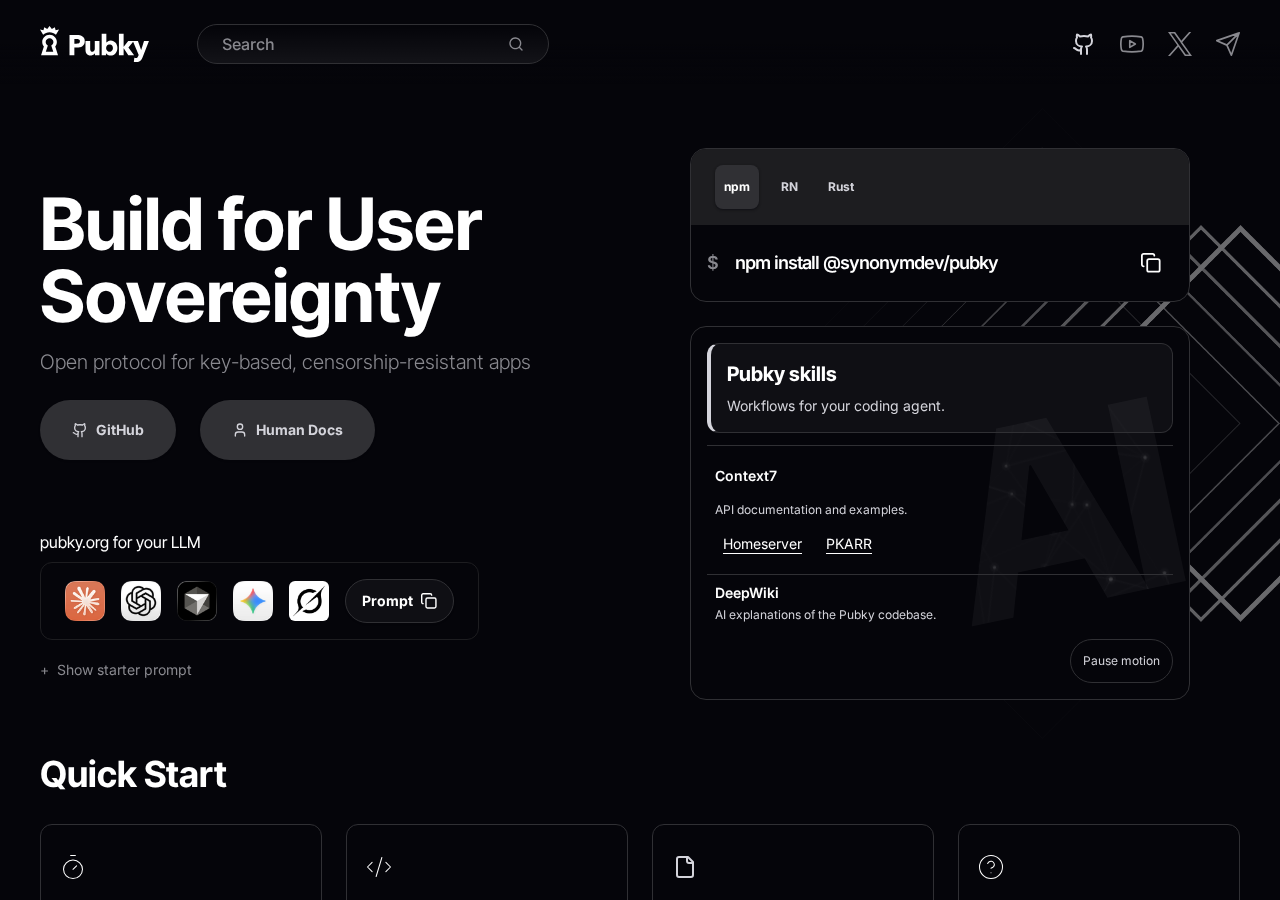
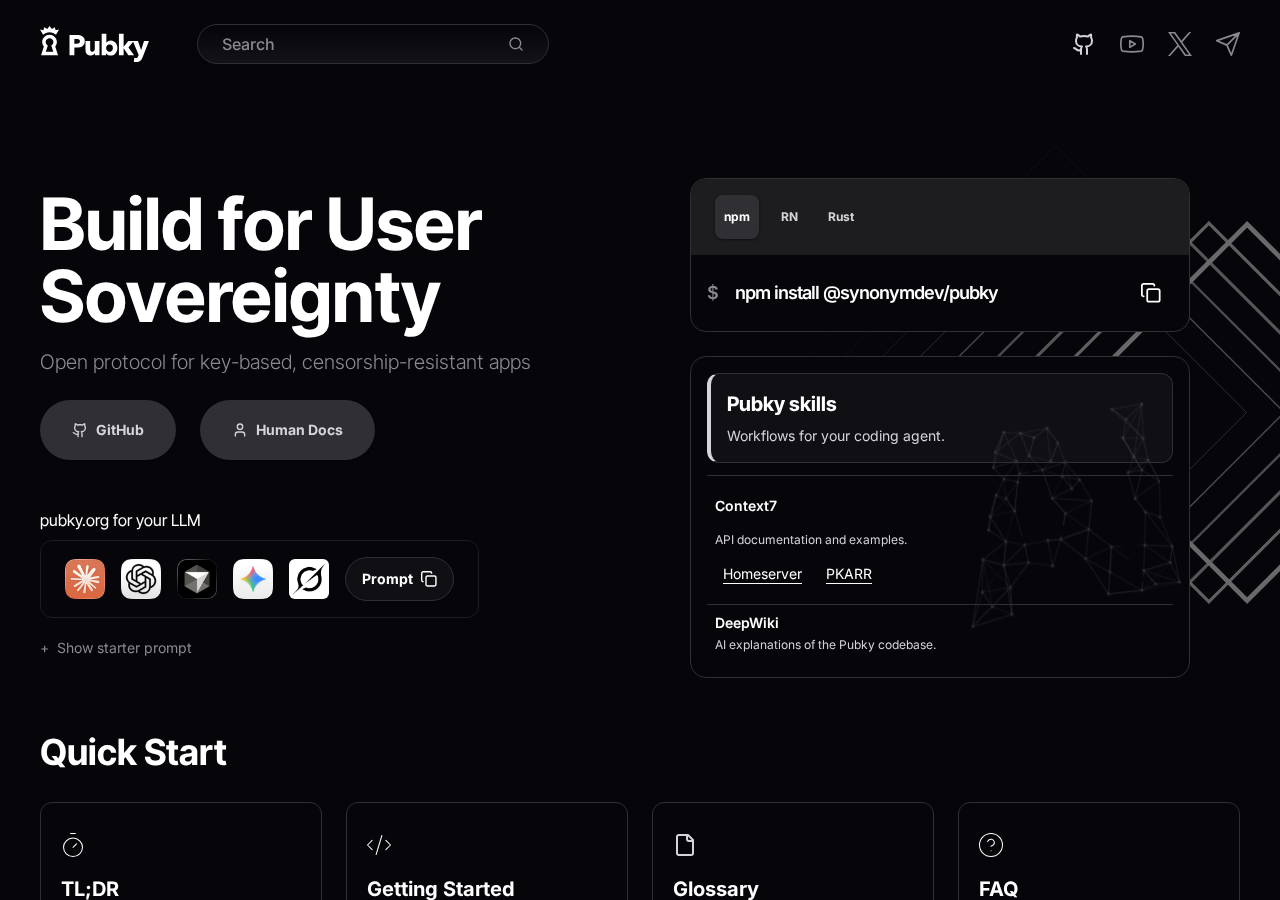
Form AI lettering from a dense illuminated network

diff --git a/src/scripts/ai-network.ts b/src/scripts/ai-network.ts
@@ -1,13 +1,17 @@
 /** A bounded decorative network; the existing CSS mesh remains the fallback. */
 const controllers = new Map<HTMLElement, () => void>();
 const FRAME_INTERVAL = 1000 / 20;
-const NODE_COUNT = 24;
+const NODE_COUNT = 64;
+const SWEEP_CYCLE = 12_000;
+const SWEEP_START = 1_080;
+const SWEEP_DURATION = 2_520;
+
+type Edge = { from: number; to: number; stable: boolean; phase: number };
 
 function createNetwork(root: HTMLElement): () => void {
   const watermark = root.querySelector<HTMLElement>('.ai-resources-watermark');
   const canvas = root.querySelector<HTMLCanvasElement>('.ai-network-canvas');
-  const toggle = root.querySelector<HTMLButtonElement>('[data-ai-motion-toggle]');
-  if (!watermark || !canvas || !toggle || !window.IntersectionObserver || !window.ResizeObserver) {
+  if (!watermark || !canvas || !window.IntersectionObserver || !window.ResizeObserver) {
     return () => {};
   }
 
@@ -18,14 +22,15 @@ function createNetwork(root: HTMLElement): () => void {
 
   const reducedMotion = matchMedia('(prefers-reduced-motion: reduce)');
   const events = new AbortController();
-  const nodes = Array.from({ length: NODE_COUNT }, (_, index) => ({
-    x: ((index % 4) + 0.5 + (Math.random() - 0.5) * 0.6) / 4,
-    y: (Math.floor(index / 4) + 0.5 + (Math.random() - 0.5) * 0.6) / 6,
+  const nodes = Array.from({ length: NODE_COUNT }, () => ({
+    x: 0,
+    y: 0,
     phase: Math.random() * Math.PI * 2,
   }));
+  let edges: Edge[] = [];
+  let maskPixels: ImageData['data'] | undefined;
   let disposed = false;
   let failed = false;
-  let paused = false;
   let visible = false;
   let fontsReady = false;
   let ready = false;
@@ -38,47 +43,123 @@ function createNetwork(root: HTMLElement): () => void {
   let lastDraw = 0;
   let elapsed = 0;
 
+  function insideMask(x: number, y: number): boolean {
+    if (!maskPixels || x < 0 || y < 0 || x >= width || y >= height) return false;
+    const column = Math.min(mask.width - 1, Math.floor(x * pixelRatio));
+    const row = Math.min(mask.height - 1, Math.floor(y * pixelRatio));
+    return (maskPixels[(row * mask.width + column) * 4 + 3] ?? 0) > 160;
+  }
+
+  function seedGraph() {
+    // Farthest-point sampling spreads nodes through the actual strokes of both
+    // letters, including their contours, instead of wasting nodes in empty space.
+    const candidates: Array<{ x: number; y: number; distance: number }> = [];
+    const step = Math.max(2, Math.min(width, height) / 32);
+    for (let y = step / 2; y < height && candidates.length < 4096; y += step) {
+      for (let x = step / 2; x < width && candidates.length < 4096; x += step) {
+        if (insideMask(x, y)) candidates.push({ x, y, distance: Infinity });
+      }
+    }
+    if (!candidates.length) throw new Error('The decorative glyph mask is empty.');
+    let next = 0;
+    nodes.forEach((node, index) => {
+      const point = candidates[next]!;
+      node.x = point.x / width;
+      node.y = point.y / height;
+      point.distance = -1;
+      let farthest = -1;
+      next = index % candidates.length;
+      candidates.forEach((candidate, candidateIndex) => {
+        if (candidate.distance < 0) return;
+        const distance = (point.x - candidate.x) ** 2 + (point.y - candidate.y) ** 2;
+        candidate.distance = Math.min(candidate.distance, distance);
+        if (candidate.distance > farthest) {
+          farthest = candidate.distance;
+          next = candidateIndex;
+        }
+      });
+    });
+
+    // Five candidate neighbors per node cap the graph at 320 unique edges.
+    // Two nearby connections remain as a dim backbone; the others fade/reform.
+    const connections = new Map<number, Edge>();
+    nodes.forEach((node, index) => {
+      const nearest = nodes.map((other, otherIndex) => ({
+        index: otherIndex,
+        distance: ((node.x - other.x) * width) ** 2 + ((node.y - other.y) * height) ** 2,
+      })).filter((other) => other.index !== index)
+        .sort((a, b) => a.distance - b.distance).slice(0, 5);
+      nearest.forEach((other, rank) => {
+        const from = Math.min(index, other.index);
+        const to = Math.max(index, other.index);
+        const key = from * NODE_COUNT + to;
+        const existing = connections.get(key);
+        if (existing) existing.stable ||= rank < 2;
+        else connections.set(key, {
+          from, to, stable: rank < 2, phase: nodes[from]!.phase + nodes[to]!.phase,
+        });
+      });
+    });
+    edges = [...connections.values()];
+  }
+
   function draw() {
     if (!context || !ready) return;
     const time = elapsed / 1000;
-    const points = nodes.map((node) => ({
-      x: (node.x + Math.sin(time * 0.32 + node.phase) * 0.055) * width,
-      y: (node.y + Math.cos(time * 0.25 + node.phase) * 0.045) * height,
-    }));
+    const drift = Math.min(width, height) * 0.018;
+    const points = nodes.map((node) => {
+      const anchor = { x: node.x * width, y: node.y * height };
+      let x = anchor.x + Math.sin(time * 0.45 + node.phase) * drift;
+      let y = anchor.y + Math.cos(time * 0.37 + node.phase) * drift;
+      if (!insideMask(x, y)) {
+        x = (x + anchor.x) / 2;
+        y = (y + anchor.y) / 2;
+      }
+      return insideMask(x, y) ? { x, y } : anchor;
+    });
+    const cycleTime = elapsed % SWEEP_CYCLE;
+    const sweeping = cycleTime >= SWEEP_START && cycleTime < SWEEP_START + SWEEP_DURATION;
+    const state = sweeping ? 'sweeping' : 'resting';
+    if (root.dataset.aiShimmer !== state) root.dataset.aiShimmer = state;
+    const band = Math.max(width, height) * 0.16;
+    const progress = (cycleTime - SWEEP_START) / SWEEP_DURATION;
+    const center = -band + (width + height * 0.3 + band * 2) * progress;
+    const lightAt = (x: number, y: number) => sweeping
+      ? Math.max(0, 1 - Math.abs(x + y * 0.3 - center) / band) ** 2
+      : 0;
+
     context.setTransform(pixelRatio, 0, 0, pixelRatio, 0, 0);
     context.clearRect(0, 0, width, height);
     context.strokeStyle = ink;
     context.fillStyle = ink;
-    context.lineWidth = 0.8;
-    const reach = Math.max(width, height) * 0.34;
-
-    // At most three forward connections per node; edge phases form new paths.
-    points.forEach((point, index) => {
-      let connections = 0;
-      for (let other = index + 1; other < points.length && connections < 3; other++) {
-        const target = points[other]!;
-        const distance = Math.hypot(point.x - target.x, point.y - target.y);
-        const formation = Math.sin(time * 0.52 + index * 1.7 + other * 0.9);
-        if (distance >= reach || formation <= -0.25) continue;
-        context.globalAlpha = (1 - distance / reach) * (formation + 0.25) * 0.65;
-        context.beginPath();
-        context.moveTo(point.x, point.y);
-        context.lineTo(target.x, target.y);
-        context.stroke();
-        connections++;
-      }
+    context.lineWidth = 0.85;
+    context.lineCap = 'round';
+    edges.forEach((edge) => {
+      const from = points[edge.from]!;
+      const to = points[edge.to]!;
+      const formation = (Math.sin(time * 0.55 + edge.phase) + 1) / 2;
+      if (!edge.stable && formation < 0.2) return;
+      const glint = lightAt((from.x + to.x) / 2, (from.y + to.y) / 2);
+      context.globalAlpha = Math.min(1, (edge.stable ? 0.28 : 0.1) + formation * 0.32 + glint * 0.6);
+      context.beginPath();
+      context.moveTo(from.x, from.y);
+      context.lineTo(to.x, to.y);
+      context.stroke();
     });
     points.forEach((point, index) => {
       const pulse = (Math.sin(time * 0.8 + nodes[index]!.phase) + 1) / 2;
-      context.globalAlpha = 0.1;
+      const glint = lightAt(point.x, point.y);
+      context.globalAlpha = 0.05 + glint * 0.1;
       context.beginPath();
-      context.arc(point.x, point.y, 4 + pulse, 0, Math.PI * 2);
+      context.arc(point.x, point.y, 3, 0, Math.PI * 2);
       context.fill();
-      context.globalAlpha = 0.65 + pulse * 0.35;
+      context.globalAlpha = Math.min(1, 0.5 + pulse * 0.2 + glint * 0.5);
       context.beginPath();
-      context.arc(point.x, point.y, 1.4 + pulse * 0.6, 0, Math.PI * 2);
+      context.arc(point.x, point.y, 1.2 + glint * 0.5, 0, Math.PI * 2);
       context.fill();
     });
+    // Only strokes and points reach the visible canvas; the glyph is an alpha
+    // mask, never a painted silhouette. The shimmer only changes their light.
     context.globalAlpha = 1;
     context.globalCompositeOperation = 'destination-in';
     context.drawImage(mask, 0, 0, width, height);
@@ -110,16 +191,14 @@ function createNetwork(root: HTMLElement): () => void {
   }
 
   function sync() {
-    if (disposed || !toggle) return;
+    if (disposed) return;
     const reduced = reducedMotion.matches;
     const usable = ready && fontsReady && !failed && !reduced;
-    root.dataset.aiMotion = reduced ? 'reduced' : paused ? 'paused' : 'playing';
+    root.dataset.aiMotion = reduced ? 'reduced' : 'playing';
     if (usable) root.dataset.aiNetworkReady = 'true';
     else delete root.dataset.aiNetworkReady;
-    toggle.hidden = !usable;
-    toggle.textContent = paused ? 'Play motion' : 'Pause motion';
-    toggle.setAttribute('aria-label', `${paused ? 'Play' : 'Pause'} motion in the AI lettering`);
-    const running = usable && !paused && visible && !document.hidden;
+    if (!usable) root.dataset.aiShimmer = 'resting';
+    const running = usable && visible && !document.hidden;
     if (!running) {
       stop();
     } else if (frame === undefined) {
@@ -161,6 +240,8 @@ function createNetwork(root: HTMLElement): () => void {
         maskContext.fillText('A', 0, baseline);
         maskContext.fillText('I', maskContext.measureText('A').width + tracking, baseline);
       }
+      maskPixels = maskContext.getImageData(0, 0, mask.width, mask.height).data;
+      seedGraph();
       ready = true;
       if (visible && !document.hidden) draw();
     } catch {
@@ -170,10 +251,6 @@ function createNetwork(root: HTMLElement): () => void {
     sync();
   }
 
-  toggle.addEventListener('click', () => {
-    paused = !paused;
-    sync();
-  }, { signal: events.signal });
   reducedMotion.addEventListener('change', () => {
     resize();
     sync();
@@ -207,7 +284,9 @@ function createNetwork(root: HTMLElement): () => void {
     delete root.dataset.aiMotion;
     delete root.dataset.aiRunning;
     delete root.dataset.aiNetworkReady;
-    toggle.hidden = true;
+    delete root.dataset.aiShimmer;
+    maskPixels = undefined;
+    edges = [];
     canvas.width = canvas.height = mask.width = mask.height = 0;
   };
 }

diff --git a/experiments/ai-native-docs/README.md b/experiments/ai-native-docs/README.md
@@ -6,7 +6,7 @@ Source: [gcomte/pubky-knowledge-base-vibed, vibe/ai-native-docs](https://github.
 
 Live experiment: **[pubky-ai-docs-vibe.vercel.app](https://pubky-ai-docs-vibe.vercel.app/)**.
 
-The landing page keeps the original hero heading, tagline, pill buttons, triangle backdrop and SDK terminal with npm, React Native and Rust tabs. A visible resource box below the terminal leads with Pubky skills as the primary entry, using a larger title and more space. Context7's Pubky search and its Homeserver and PKARR indexes, and DeepWiki, remain visible below it. Dim, tilted **AI** lettering sits behind the entries in place of a visible heading; the region retains an accessible name. A moving network of points and connections follows the letter shapes, with an occasional light sweep. A discreet pause control lets readers stop the motion. Reduced-motion preferences and browsers without JavaScript receive the static mesh. All entries appear without opening a menu. The original Claude, ChatGPT, Cursor, Gemini and Grok icon row appears under **pubky.org for your LLM**, alongside a compact **Prompt** copy button, with more space above and no flashing arrow or border. The portable starter prompt and show-prompt fallback remain available.
+The landing page keeps the original hero heading, tagline, pill buttons, triangle backdrop and SDK terminal with npm, React Native and Rust tabs. A visible resource box below the terminal leads with Pubky skills as the primary entry, using a larger title and more space. Context7's Pubky search and its Homeserver and PKARR indexes, and DeepWiki, remain visible below it. A dense moving network forms the tilted **AI** letters behind the entries in place of a visible heading; the region retains an accessible name. An occasional light sweep brightens the network itself. Reduced-motion preferences and browsers without JavaScript receive the static mesh. All entries appear without opening a menu. The original Claude, ChatGPT, Cursor, Gemini and Grok icon row appears under **pubky.org for your LLM**, alongside a compact **Prompt** copy button, with more space above and no flashing arrow or border. The portable starter prompt and show-prompt fallback remain available.
 
 On documentation pages, **Markdown** and **Copy link** controls sit beside the title, or below it on smaller screens. They replace the former “AI-friendly version” footer row. The existing documentation bodies and Markdown export pipeline are retained. Standard HTML links advertise the documentation index and each page's Markdown alternative.
 
@@ -20,13 +20,14 @@ This adapts the supplied `vibe-self-host` workflow to a static documentation fro
 - [Updated landing, mobile](evidence/after-mobile.png)
 - [AI resources, desktop](evidence/ai-resources-desktop.png)
 - [AI resources, mobile](evidence/ai-resources-mobile.png)
+- [Network illumination during a sweep](evidence/ai-network-shimmer.png)
 - [Document title actions, desktop](evidence/doc-actions-desktop.png)
 - [Document title actions, mobile](evidence/doc-actions-mobile.png)
 - [Browser check results](evidence/browser-checks.json)
 - [Network motion and layout checks](evidence/mesh-checks.json)
 - [Public deployment checks](evidence/public-checks.json)
 
-Validation passed: production build and generated-Markdown checks; all 22 internal homepage links; Markdown endpoints and discovery metadata; six viewport widths from 320 to 1920 pixels for the hero and short/long document titles; restored provider destinations, encoded prompts and icon assets; visible resource links without a disclosure; touch targets and keyboard focus; clipboard success and failure fallbacks; SDK tabs and command copying; and native links/disclosures without JavaScript. Network checks confirm changing rendered frames, a shimmer every 12 seconds, mouse and keyboard pause/resume, suspension offscreen and when hidden, live reduced-motion changes, and static fallbacks without JavaScript or canvas. The lettering stays vertically centered at 90% of its prior size; Skills has the largest resource heading, and desktop launcher/card bottom edges align. No browser runtime errors were observed. Security review of the changed execution paths found no actionable issues. The static deployment configuration is unchanged.
+Validation passed: production build and generated-Markdown checks; all 22 internal homepage links; Markdown endpoints and discovery metadata; six viewport widths from 320 to 1920 pixels for the hero and short/long document titles; restored provider destinations, encoded prompts and icon assets; visible resource links without a disclosure; touch targets and keyboard focus; clipboard success and failure fallbacks; SDK tabs and command copying; and native links/disclosures without JavaScript. Network checks confirm changing rendered frames, network-only illumination, a shimmer every 12 seconds, suspension offscreen and when hidden, live reduced-motion changes, and static fallbacks without JavaScript or canvas. The lettering stays vertically centered at 90% of its prior size; Skills has the largest resource heading, and desktop launcher/card bottom edges align. No browser runtime errors were observed. Security review of the changed execution paths found no actionable issues. The static deployment configuration is unchanged.
 
 ## Run locally
 

diff --git a/experiments/ai-native-docs/research.md b/experiments/ai-native-docs/research.md
@@ -6,7 +6,7 @@ Research checked **September 14, 2026**. This is a documentation frontend experi
 
 Keep the landing page's existing design and ordinary documentation entry points. Replace the AI Kit destination with a visible AI resources box offering three clearly different resources: task skills, API context through Context7, and repository explanations through DeepWiki. Show all three without requiring a click to discover them. Keep the original provider shortcuts and one portable starter prompt under **pubky.org for your LLM**, and put per-page Markdown access beside the document title. Use a small index and relevant pages as the starting context.
 
-The implementation preserves the original hero typography, tagline, button styling, triangle backdrop and SDK terminal. The resource box sits below the terminal, with oversized, dim decorative AI lettering behind the links. Moving network connections and an occasional shimmer follow the letter shapes to draw attention to the box, with a pause control and a static reduced-motion treatment. Pubky skills is the primary entry, with a larger title and more space. The secondary entries are a Context7 heading that links to its Pubky search, separate Context7 links for Homeserver and PKARR, and Homeserver on DeepWiki. Documentation pages offer **Markdown** and **Copy link** beside the title, wrapping below it on smaller screens, in place of the footer controls.
+The implementation preserves the original hero typography, tagline, button styling, triangle backdrop and SDK terminal. The resource box sits below the terminal, with a dense moving network forming the oversized AI letter shapes behind the links. An occasional shimmer brightens its connections, with automatic suspension offscreen and a static reduced-motion treatment. Pubky skills is the primary entry, with a larger title and more space. The secondary entries are a Context7 heading that links to its Pubky search, separate Context7 links for Homeserver and PKARR, and Homeserver on DeepWiki. Documentation pages offer **Markdown** and **Copy link** beside the title, wrapping below it on smaller screens, in place of the footer controls.
 
 The biggest current gap is release accuracy. Adding more links will not fix references that teach older APIs.
 
